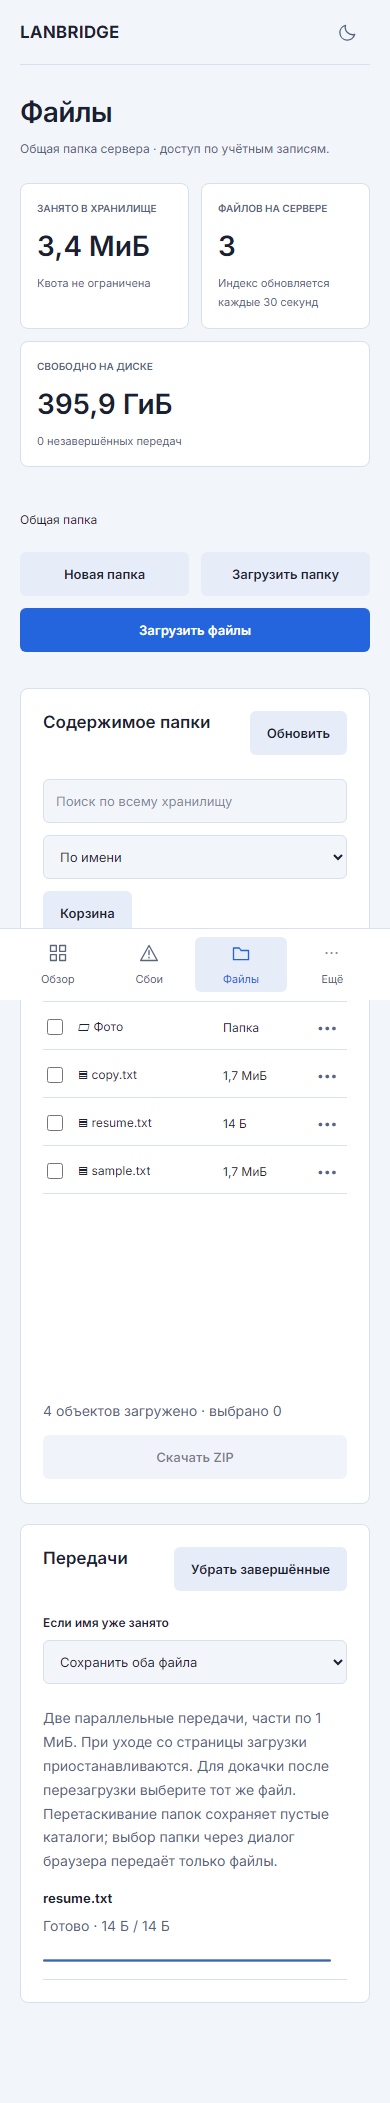
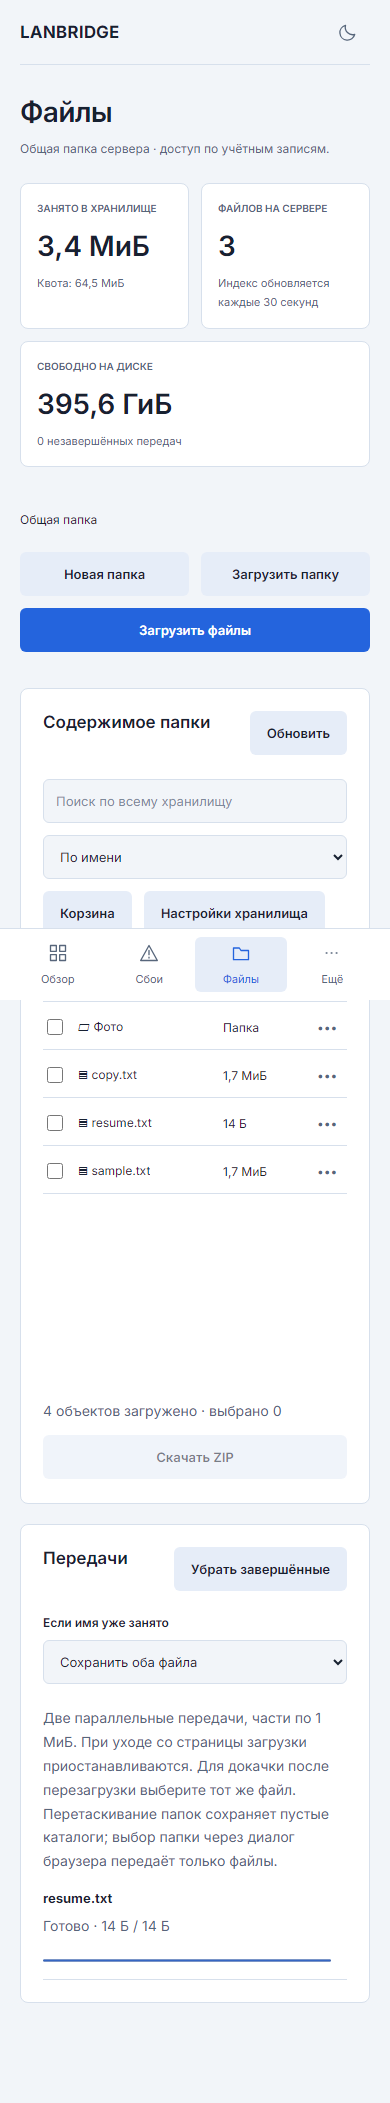
feat: add storage quota and retention settings

Changed region(s): [[0.3692, 0.4018, 0.8308, 0.4636], [0.2769, 0.1236, 0.3077, 0.1545], [0.2462, 0.1854, 0.2769, 0.2164]]

diff --git a/web/src/files.js b/web/src/files.js
@@ -1,6 +1,7 @@
 import {h} from 'preact';
 import {useEffect,useRef,useState} from 'preact/hooks';
 import htm from 'htm';
+import {StorageSettings} from './storage-settings.js';
 const html=htm.bind(h);
 export const bytes=n=>{if(!n)return '0 Б';const k=Math.min(4,Math.floor(Math.log(n)/Math.log(1024)));return (n/1024**k).toLocaleString('ru-RU',{maximumFractionDigits:1})+' '+['Б','КиБ','МиБ','ГиБ','ТиБ'][k]};
 const join=(folder,name)=>folder==='.'?name:folder+'/'+name;
@@ -44,10 +45,11 @@ export function FileBrowser({api,notify,user,csrf}){
  return html`<div class="stats three"><section class="stat"><h2>ЗАНЯТО В ХРАНИЛИЩЕ</h2><strong>${storage?bytes(storage.used):'—'}</strong><p>${storage?.settings.global_limit?'Квота: '+bytes(storage.settings.global_limit):'Квота не ограничена'}</p></section><section class="stat"><h2>ФАЙЛОВ НА СЕРВЕРЕ</h2><strong>${storage?.files??'—'}</strong><p>Индекс обновляется каждые 30 секунд</p></section><section class="stat"><h2>СВОБОДНО НА ДИСКЕ</h2><strong>${storage?bytes(storage.available):'—'}</strong><p>${busy} незавершённых передач</p></section></div>
  <div class="file-actions"><nav aria-label="Путь к папке"><button class="monitor-name" onClick=${()=>setFolder('.')}>Общая папка</button>${folder!=='.'&&folder.split('/').map((part,i)=>html`<span> / <button class="monitor-name" onClick=${()=>setFolder(folder.split('/').slice(0,i+1).join('/'))}>${part}</button></span>`)}</nav><div class="dialog-actions"><button class="button secondary" onClick=${()=>setDialog({action:'mkdir'})}>Новая папка</button><button class="button secondary" onClick=${()=>directory.current.click()}>Загрузить папку</button><button class="button" onClick=${()=>input.current.click()}>Загрузить файлы</button></div></div>
  <input hidden type="file" multiple ref=${input} onChange=${e=>{addFiles(Array.from(e.currentTarget.files));e.currentTarget.value=''}}/><input hidden type="file" multiple webkitdirectory=${true} ref=${directory} onChange=${e=>{addFiles(Array.from(e.currentTarget.files));e.currentTarget.value=''}}/><input hidden type="file" ref=${resumeInput} onChange=${e=>{const file=e.currentTarget.files[0],j=resumeItem.current;if(file&&j){if(file.size!==j.size)notify('Размер исходного файла не совпадает',true);else{j.file=file;j.state='queued';redraw();pump()}}e.currentTarget.value=''}}/>
- <section class="panel file-panel" onDragOver=${e=>e.preventDefault()} onDrop=${dropped}><div class="panel-heading"><h2>Содержимое папки</h2><button class="button secondary" onClick=${()=>refresh()} disabled=${loading}>Обновить</button></div><div class="toolbar"><input aria-label="Поиск файлов" placeholder="Поиск по всему хранилищу" value=${query} onInput=${e=>setQuery(e.currentTarget.value)}/><select aria-label="Сортировка файлов" value=${sort} onChange=${e=>setSort(e.currentTarget.value)}><option value="name">По имени</option><option value="size">По размеру</option><option value="modified">По дате</option></select><button class="button secondary" onClick=${openTrash}>Корзина</button></div>${error&&html`<p class="form-error" role="alert">${error}</p>`}
+ <section class="panel file-panel" onDragOver=${e=>e.preventDefault()} onDrop=${dropped}><div class="panel-heading"><h2>Содержимое папки</h2><button class="button secondary" onClick=${()=>refresh()} disabled=${loading}>Обновить</button></div><div class="toolbar"><input aria-label="Поиск файлов" placeholder="Поиск по всему хранилищу" value=${query} onInput=${e=>setQuery(e.currentTarget.value)}/><select aria-label="Сортировка файлов" value=${sort} onChange=${e=>setSort(e.currentTarget.value)}><option value="name">По имени</option><option value="size">По размеру</option><option value="modified">По дате</option></select><button class="button secondary" onClick=${openTrash}>Корзина</button>${user.role==='admin'&&html`<button class="button secondary" disabled=${!storage} onClick=${()=>setDialog({action:'storage'})}>Настройки хранилища</button>`}</div>${error&&html`<p class="form-error" role="alert">${error}</p>`}
  <div class="file-list-head"><span>ИМЯ</span><span>РАЗМЕР</span><span>ИЗМЕНЁН</span><span>ДОСТУП</span></div><div class="file-viewport" ref=${viewport} onScroll=${e=>setScroll(e.currentTarget.scrollTop)} aria-label="Список файлов" aria-busy=${loading} role="list"><div style=${{height:Math.max(items.length*48,items.length?0:140)+'px',position:'relative'}}>${visible.map((item,i)=>html`<div role="listitem" class="file-row" key=${item.path} style=${{top:((start+i)*48)+'px'}}><div class="file-name"><input type="checkbox" aria-label=${'Выбрать '+item.name} checked=${selected.includes(item.path)} onChange=${e=>setSelected(e.currentTarget.checked?[...selected,item.path]:selected.filter(p=>p!==item.path))}/>${item.directory?html`<button class="monitor-name" title=${item.path} onClick=${()=>{setFolder(item.path);setQuery('')}}>▱ ${item.name}</button>`:html`<a title=${item.path} href=${download(item.path)}>▤ ${item.name}</a>`}</div><span>${item.directory?'Папка':bytes(item.size)}</span><span>${new Date(item.modified/1e6).toLocaleDateString('ru-RU')}</span><div class="file-row-end"><span>${{users:'Пользователи',admin:'Администратор',read:'Чтение'}[item.access]}</span><button class="icon-button" aria-label=${'Действия: '+item.name} onClick=${()=>setDialog({action:'menu',item})}>•••</button></div></div>`)}${!items.length&&html`<div class="empty compact"><h3>${loading?'Загрузка…':query?'Ничего не найдено':'Папка пуста'}</h3><p>Перетащите сюда файлы или папки.</p></div>`}</div></div><div class="file-actions"><span class="muted">${items.length} объектов загружено · выбрано ${selected.length}</span><div class="dialog-actions">${more&&html`<button class="button secondary" disabled=${loading} onClick=${()=>refresh(true)}>Загрузить ещё</button>`}<button class="button secondary" disabled=${!selected.length} onClick=${zip}>Скачать ZIP</button></div></div></section>
  <section class="panel"><div class="panel-heading"><h2>Передачи</h2><button class="button secondary" onClick=${()=>{jobs.current=jobs.current.filter(j=>j.state!=='complete');redraw()}}>Убрать завершённые</button></div><label class="field"><span>Если имя уже занято</span><select value=${conflict} onChange=${e=>setConflict(e.currentTarget.value)}><option value="both">Сохранить оба файла</option><option value="skip">Пропустить (показать конфликт)</option><option value="replace">Заменить существующий файл</option></select></label><p class="muted">Две параллельные передачи, части по 1 МиБ. При уходе со страницы загрузки приостанавливаются. Для докачки после перезагрузки выберите тот же файл. Перетаскивание папок сохраняет пустые каталоги; выбор папки через диалог браузера передаёт только файлы.</p><div class="upload-list">${queue.map(j=>html`<div class="upload-row" key=${j.key}><div><strong>${j.path}</strong><p class="muted">${labels[j.state]} · ${bytes(j.offset||0)} / ${bytes(j.size)}${j.state==='hashing'?' · '+Math.round(100*(j.hashed||0)/Math.max(1,j.size))+'%':j.state==='uploading'&&j.speed?' · '+bytes(j.speed)+'/с · осталось '+Math.ceil((j.size-j.offset)/j.speed)+' с':''}</p><progress max=${Math.max(1,j.size)} value=${j.state==='complete'?Math.max(1,j.size):j.offset||0}/>${j.error&&html`<p class="form-error">${j.error}</p>`}</div><div class="dialog-actions">${['hashing','uploading','finishing'].includes(j.state)?html`<button class="button secondary" onClick=${()=>j.controller?.abort()}>Пауза</button>`:['paused','choose','error'].includes(j.state)&&html`<button class="button secondary" onClick=${()=>resume(j)}>${j.file||j.serverState==='committing'?'Продолжить':'Выбрать файл'}</button>`}${j.state!=='complete'&&html`<button class="icon-button" aria-label=${'Отменить '+j.path} onClick=${()=>cancel(j)}>×</button>`}</div></div>`)}</div>${!queue.length&&html`<p class="muted">Нет активных передач.</p>`}</section>
- ${dialog&&html`<${FileDialog} onClose=${()=>setDialog(null)} title=${dialog.action==='menu'?dialog.item.name:({mkdir:'Новая папка',move:'Переместить или переименовать',copy:'Копировать',trash:'В корзину',access:'Права доступа'}[dialog.action])}>${dialog.action==='menu'?html`<div class="file-menu">${['move','copy','trash',...(user.role==='admin'?['access']:[])].map(action=>html`<button class="button secondary" onClick=${()=>setDialog({...dialog,action})}>${{move:'Переместить / переименовать',copy:'Копировать',trash:'В корзину',access:'Права доступа'}[action]}</button>`)}</div>`:html`<form onSubmit=${operate}>${dialog.action==='trash'?html`<p>«${dialog.item.name}» будет перемещён в корзину. Срок хранения: ${storage?.settings.trash_days} дней; старые элементы также удаляются при превышении лимита корзины.</p>`:dialog.action==='access'?html`<label class="field"><span>Доступ</span><select name="access" defaultValue=${dialog.item.access}><option value="users">Пользователи: чтение и запись</option><option value="read">Пользователи: только чтение</option><option value="admin">Только администратор</option></select></label>`:html`<label class="field"><span>${dialog.action==='mkdir'?'Имя папки':'Полный путь относительно общей папки'}</span><input name="name" required defaultValue=${dialog.item?.path||''} autoFocus/></label>`}${['move','copy'].includes(dialog.action)&&html`<label class="field"><span>При совпадении имени</span><select name="conflict"><option value="skip">Не заменять</option><option value="both">Сохранить оба</option><option value="replace">Заменить (старый объект в корзину)</option></select></label>`}<div class="dialog-actions"><button type="button" class="button secondary" onClick=${()=>setDialog(null)}>Отмена</button><button class="button">Применить</button></div></form>`}</${FileDialog}>`}
+ ${dialog?.action==='storage'&&html`<${StorageSettings} settings=${storage.settings} api=${api} onClose=${()=>setDialog(null)} onSaved=${settings=>{setStorage({...storage,settings});setDialog(null);notify('Настройки хранилища сохранены')}}/>`}
+ ${dialog&&dialog.action!=='storage'&&html`<${FileDialog} onClose=${()=>setDialog(null)} title=${dialog.action==='menu'?dialog.item.name:({mkdir:'Новая папка',move:'Переместить или переименовать',copy:'Копировать',trash:'В корзину',access:'Права доступа'}[dialog.action])}>${dialog.action==='menu'?html`<div class="file-menu">${['move','copy','trash',...(user.role==='admin'?['access']:[])].map(action=>html`<button class="button secondary" onClick=${()=>setDialog({...dialog,action})}>${{move:'Переместить / переименовать',copy:'Копировать',trash:'В корзину',access:'Права доступа'}[action]}</button>`)}</div>`:html`<form onSubmit=${operate}>${dialog.action==='trash'?html`<p>«${dialog.item.name}» будет перемещён в корзину. Срок хранения: ${storage?.settings.trash_days} дней; старые элементы также удаляются при превышении лимита корзины.</p>`:dialog.action==='access'?html`<label class="field"><span>Доступ</span><select name="access" defaultValue=${dialog.item.access}><option value="users">Пользователи: чтение и запись</option><option value="read">Пользователи: только чтение</option><option value="admin">Только администратор</option></select></label>`:html`<label class="field"><span>${dialog.action==='mkdir'?'Имя папки':'Полный путь относительно общей папки'}</span><input name="name" required defaultValue=${dialog.item?.path||''} autoFocus/></label>`}${['move','copy'].includes(dialog.action)&&html`<label class="field"><span>При совпадении имени</span><select name="conflict"><option value="skip">Не заменять</option><option value="both">Сохранить оба</option><option value="replace">Заменить (старый объект в корзину)</option></select></label>`}<div class="dialog-actions"><button type="button" class="button secondary" onClick=${()=>setDialog(null)}>Отмена</button><button class="button">Применить</button></div></form>`}</${FileDialog}>`}
  ${trash&&html`<${FileDialog} title="Корзина" onClose=${()=>setTrash(null)}><p class="muted">До 1000 последних объектов. При восстановлении совпадающие имена сохраняются отдельно.</p><div class="trash-list">${trash.map(t=>html`<div class="upload-row"><div><strong>${t.path}</strong><p class="muted">${bytes(t.size)} · ${new Date(t.created*1000).toLocaleString('ru-RU')}</p></div><button class="button secondary" disabled=${t.state!=='ready'} onClick=${async()=>{try{await api('files/restore','POST',{id:t.id,conflict:'both'});await openTrash();refresh()}catch(e){notify(e.message,true)}}}>Восстановить</button></div>`)}</div>${!trash.length&&html`<p>Корзина пуста.</p>`}</${FileDialog}>`}`;
 }
 function FileDialog({title,onClose,children}){const ref=useRef();useEffect(()=>{ref.current.showModal()},[]);return html`<dialog ref=${ref} class="monitor-dialog" onCancel=${onClose}><div class="panel-heading"><h2>${title}</h2><button class="icon-button" aria-label="Закрыть" onClick=${onClose}>×</button></div>${children}</dialog>`}

diff --git a/web/src/storage-settings.js b/web/src/storage-settings.js
@@ -1,0 +1,47 @@
+import {h} from 'preact';
+import {useEffect, useRef, useState} from 'preact/hooks';
+import htm from 'htm';
+const html = htm.bind(h);
+const MiB = 1048576;
+const fields = [
+ ['global_limit', 'Общая квота, МиБ', 0, null, MiB],
+ ['user_limit', 'Квота пользователя, МиБ', 0, null, MiB],
+ ['critical_free', 'Резерв свободного места, МиБ', 16, null, MiB],
+ ['trash_limit', 'Лимит корзины, МиБ', 0, null, MiB],
+ ['trash_days', 'Хранение корзины, дней', 1, 365, 1],
+ ['partial_hours', 'Хранение докачки, часов', 1, 720, 1],
+];
+export function StorageSettings({settings, api, onClose, onSaved}) {
+ const ref = useRef();
+ const [busy, setBusy] = useState(false), [error, setError] = useState('');
+ useEffect(() => {ref.current.showModal()}, []);
+ async function save(event) {
+  event.preventDefault();
+  if (busy) return;
+  const form = new FormData(event.currentTarget), values = {};
+  for (const [key, label, min, max, scale] of fields) {
+   const value = Number(form.get(key)), bytes = value * scale;
+   if (!Number.isFinite(value) || value < min || (max !== null && value > max) || !Number.isSafeInteger(bytes)) {
+    setError('Проверьте поле «' + label + '»: требуется допустимое точное значение.');
+    return;
+   }
+   values[key] = bytes;
+  }
+  setBusy(true);setError('');
+  try {onSaved(await api('files/storage', 'PUT', values))}
+  catch (e) {setError(e.message)}
+  finally {setBusy(false)}
+ }
+ return html`<dialog ref=${ref} class="monitor-dialog" onCancel=${event=>{if(busy)event.preventDefault();else onClose()}}>
+  <div class="panel-heading"><h2>Настройки хранилища</h2><button class="icon-button" disabled=${busy} onClick=${onClose} aria-label="Закрыть">×</button></div>
+  <p class="muted">0 в квоте или лимите корзины — без ограничения. 1 МиБ = 1 048 576 байт.</p>
+  <form onSubmit=${save}>
+   <fieldset disabled=${busy} class="storage-fields"><div class="field-pair">
+    ${fields.map(([key,label,min,max,scale])=>html`<label class="field" key=${key}><span>${label}</span><input name=${key} type="number" required min=${min} max=${max??Number.MAX_SAFE_INTEGER/scale} step=${scale===1?1:'any'} defaultValue=${settings[key]/scale}/></label>`)}
+   </div></fieldset>
+   <p class="warning">После уменьшения срока или лимита корзины старые объекты могут быть удалены при ближайшей очистке. Сокращение срока докачки может удалить незавершённые передачи.</p>
+   ${error&&html`<p class="form-error" role="alert">${error}</p>`}
+   <div class="dialog-actions"><button type="button" class="button secondary" disabled=${busy} onClick=${onClose}>Отмена</button><button class="button" disabled=${busy}>${busy?'Сохранение…':'Сохранить настройки'}</button></div>
+  </form>
+ </dialog>`;
+}

diff --git a/web/src/style.css b/web/src/style.css
@@ -18,3 +18,5 @@
 
 .file-name .monitor-name{display:block;min-height:0}.file-actions nav .monitor-name{display:inline;min-height:32px}.file-actions nav{line-height:32px}
 @media(max-width:700px){.file-actions>nav{width:100%}.file-actions>.dialog-actions{width:100%;flex-direction:row;flex-wrap:wrap;justify-content:flex-start}.file-actions>.dialog-actions .button{flex:1;white-space:nowrap}}
+
+.storage-fields{margin:0;padding:0;border:0;min-width:0}

diff --git a/scripts/verify_go_files.py b/scripts/verify_go_files.py
@@ -27,6 +27,19 @@ def main():
      page.locator('[name=password]').fill(password);page.locator('[name=confirm]').fill(password)
      page.get_by_role("button",name="Создать администратора",exact=True).click()
      page.locator('.sidebar').wait_for();page.goto(base+'/#files')
+     page.get_by_role('button',name='Настройки хранилища',exact=True).click()
+     page.get_by_label('Общая квота, МиБ',exact=True).fill('64.5')
+     page.get_by_role('button',name='Сохранить настройки',exact=True).click()
+     page.locator('dialog').wait_for(state='detached')
+     page.reload()
+     page.get_by_role('button',name='Настройки хранилища',exact=True).click()
+     assert page.get_by_label('Общая квота, МиБ',exact=True).input_value()=='64.5'
+     assert page.get_by_label('Резерв свободного места, МиБ',exact=True).input_value()=='64'
+     page.get_by_label('Резерв свободного места, МиБ',exact=True).fill('15')
+     page.get_by_role('button',name='Сохранить настройки',exact=True).click()
+     assert page.locator('dialog').is_visible()
+     assert not page.get_by_label('Резерв свободного места, МиБ',exact=True).evaluate('(e)=>e.validity.valid')
+     page.get_by_label('Закрыть',exact=True).click()
      page.get_by_role("button",name="Новая папка",exact=True).click()
      page.locator('dialog input[name=name]').fill('Фото/Пустая')
      page.get_by_role("button",name="Применить",exact=True).click()

diff --git a/docs/go-files.md b/docs/go-files.md
@@ -66,7 +66,9 @@ API отдаёт до 500 объектов за запрос; «Загрузит
 локальным процессам права изменять хранилище напрямую: веб-права не заменяют права ОС.
 
 Параметры хранятся в SQLite, доступны администратору через `PUT /api/files/storage`.
-Форма редактирования квот в интерфейсе пока не добавлена.
+В интерфейсе администратора откройте «Файлы → Настройки хранилища».
+Размеры вводятся в МиБ, сроки — в днях и часах. Форма проверяет границы и
+сохраняет все шесть параметров; при ошибке введённые значения остаются в форме.
 
 | Параметр | По умолчанию | Значение |
 |---|---:|---|
@@ -129,7 +131,7 @@ API-тест загрузки/Range/ZIP/корзины; Chromium: загрузк
 Скрипты проверки используют Python с Playwright/psutil и временные каталоги;
 это зависимости разработки, исполняемому Go-приложению они не нужны.
 
-Остаются: дерево папок и плиточный вид, формы квот, полноценный предпросмотр,
+Остаются: дерево папок и плиточный вид, полноценный предпросмотр,
 временные гостевые ссылки/QR, история скачиваний и автоматические уведомления о
 нехватке места. Процесс копирования пока сериализует изменения метаданных; при
 больших каталогах операции создания/перемещения могут ожидать завершения копии.

diff --git a/CHANGELOG.md b/CHANGELOG.md
@@ -6,6 +6,9 @@
 
 ### Переход на Go
 
+- Добавлена форма настройки квот, резерва диска, корзины и срока докачки.
+  Проверены сохранение после перезагрузки и отклонение недопустимого резерва.
+
 - Добавлены файловый индекс, папки, поиск, виртуализированный список, потоковые
   загрузки с докачкой/SHA-256, Range, ZIP, копирование, перемещение и корзина.
 - Добавлены квоты, наследуемые права, журнал восстановления и очистка временных

diff --git a/README.md b/README.md
@@ -5,6 +5,7 @@
 > [docs/decisions.md](docs/decisions.md). Оригинальные макеты находятся в `design/`.
 > Уведомления, очередь и наблюдатель: [docs/go-notifications.md](docs/go-notifications.md).
 > Устройства и диагностика: [docs/go-devices.md](docs/go-devices.md).
+> Настройки квот доступны администратору в разделе «Файлы».
 > Файлы, докачка, права и корзина: [docs/go-files.md](docs/go-files.md).
 > Инструкции ниже относятся к существующей Python-версии; её данные сохраняются.
 
